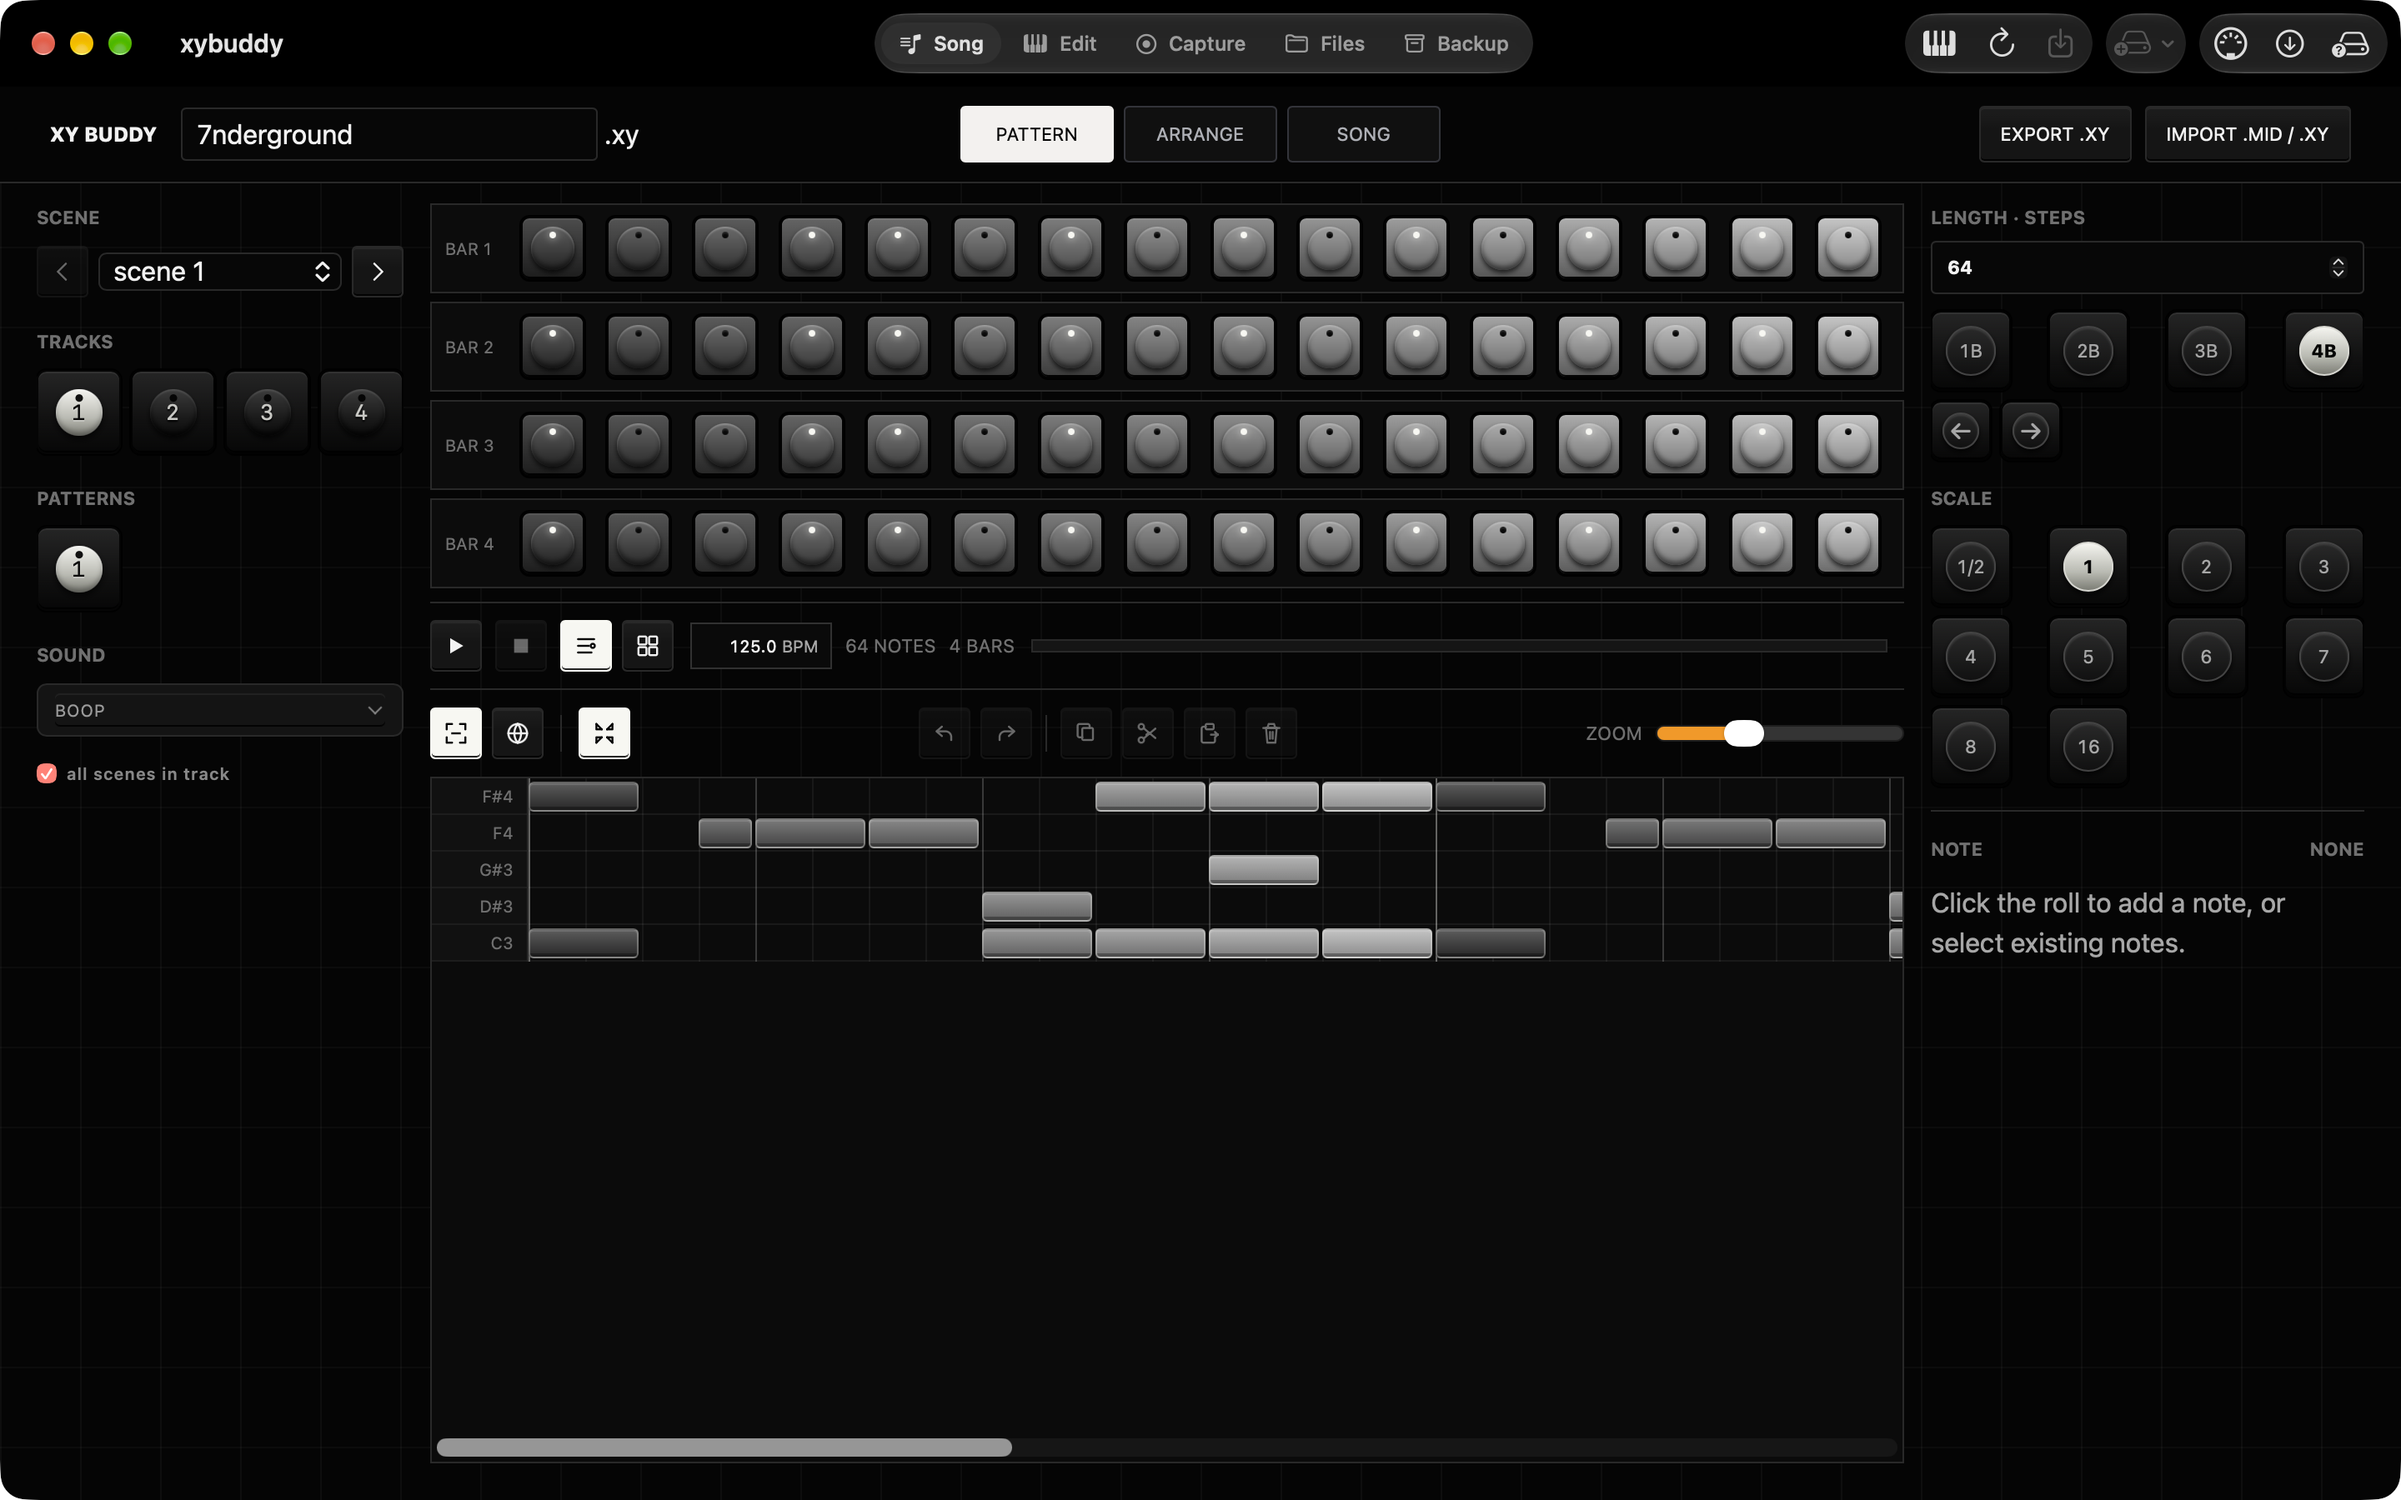
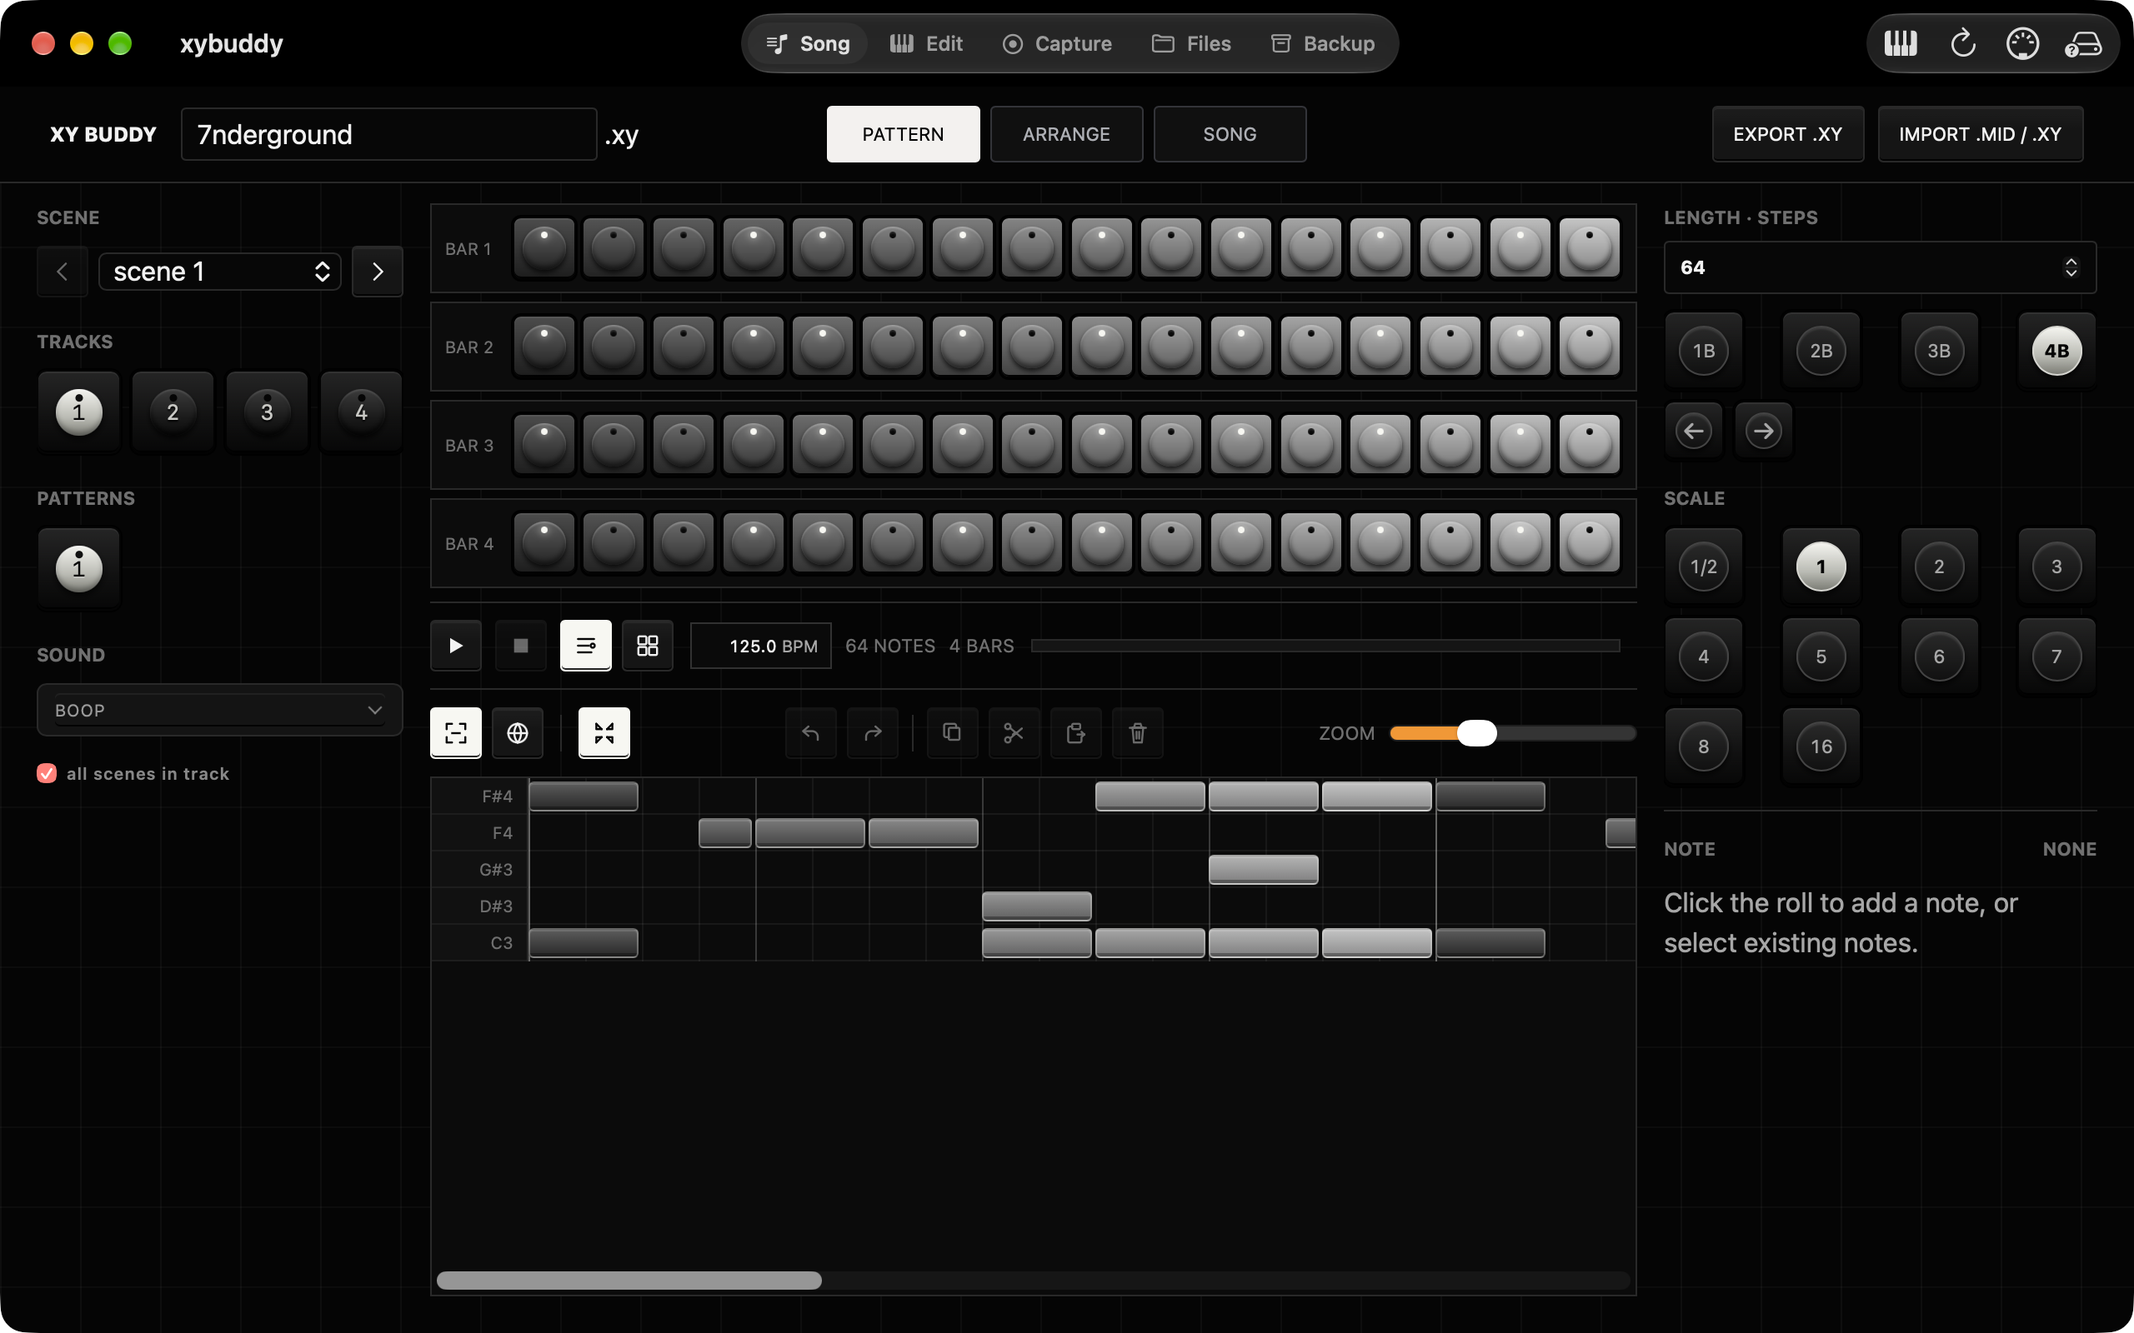
Update user guide for new Mac UI and recapture screenshots
- Firmware: name the Firmware Update button on iPhone and iPad, and the
  Mac menu command; Update OP-XY appears in the Mac toolbar only when a
  newer OS is available.
- Export: describe the Song bar that appears after export .xy.
- Recapture Mac screenshots at 2560x1600 and set matching image sizes.
- Compress all screenshots losslessly and drop unused alpha channels.
- Remove unused mac-samples-one.png.

Changed region(s): [[0.0, 0.0, 1.0, 0.7188], [0.1875, 0.9375, 0.4375, 1.0], [0.0, 0.5625, 0.0938, 0.5938]]

diff --git a/web/public/docs/index.html b/web/public/docs/index.html
@@ -85,8 +85,8 @@
               ><img
                 src="/docs/images/mac-song.png"
                 alt="The xybuddy macOS app with its Song workspace and native room toolbar"
-                width="2880"
-                height="1800"
+                width="2560"
+                height="1600"
                 fetchpriority="high"
             /></a>
             <figcaption>Song on macOS · actual app capture</figcaption>
@@ -157,8 +157,10 @@
               <dt>Export</dt>
               <dd>
                 Export <code>.xy</code> for OP–XY or MIDI for your DAW. In the
-                native apps, send the generated project to the connected
-                instrument. Mac also offers Save as Template.
+                native apps, <strong>export .xy</strong> opens a bar at the
+                bottom of Song. Use it to send the project to OP–XY Projects or
+                save it as a template. On Mac you can also save it to a folder;
+                on iPhone and iPad you can share it.
               </dd>
             </div>
           </dl>
@@ -446,10 +448,11 @@
           </div>
           <p>
             Native xybuddy builds include an OP–XY OS updater for Mac, iPhone
-            and iPad. Connect by USB in normal MIDI mode and open
-            <strong>OS Update</strong>. On Mac, you can also choose
-            <strong>xybuddy › Check for OP-XY Update…</strong> from the menu
-            bar.
+            and iPad. Connect by USB in normal MIDI mode. On iPhone and iPad,
+            tap <strong>Firmware Update</strong> in the Files toolbar. On Mac,
+            choose <strong>xybuddy › Check for OP-XY Update…</strong> from the
+            menu bar. When a newer OS is available, Mac also shows
+            <strong>Update OP-XY</strong> in the toolbar.
           </p>
           <p>
             <strong>Official firmware only!</strong> Do not use automatic

diff --git a/web/public/docs/firmware/index.html b/web/public/docs/firmware/index.html
@@ -85,10 +85,12 @@
             <h2>native update</h2>
           </div>
           <p>
-            Open <strong>OS Update</strong> in the Mac toolbar or the mobile
-            Files toolbar. On Mac,
-            <strong>xybuddy › Check for OP-XY Update…</strong> in the menu bar
-            opens the same sheet and refreshes the release check.
+            On iPhone and iPad, tap <strong>Firmware Update</strong> in the
+            Files toolbar. On Mac, choose
+            <strong>xybuddy › Check for OP-XY Update…</strong> in the menu bar,
+            which also refreshes the release check. When a newer OS is
+            available, Mac also shows <strong>Update OP-XY</strong> in the
+            toolbar, which opens the same sheet.
           </p>
           <p>
             Tap <strong>Check Device</strong> to read the installed OS and

diff --git a/web/public/docs/screenshots.js b/web/public/docs/screenshots.js
@@ -175,8 +175,8 @@ for (const gallery of document.querySelectorAll("[data-screenshots]")) {
     picture.alt = description;
     const phone = file.startsWith("iphone-");
     const tablet = file.startsWith("ipad-");
-    picture.width = phone ? 1206 : tablet ? 2420 : 2880;
-    picture.height = phone ? 2622 : tablet ? 1668 : 1800;
+    picture.width = phone ? 1206 : tablet ? 2420 : 2560;
+    picture.height = phone ? 2622 : tablet ? 1668 : 1600;
     gallery.dataset.platform = phone ? "iphone" : tablet ? "ipad" : "mac";
     picture.src = link.href;
     caption.textContent = `${title} · ${source}`;
